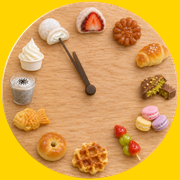
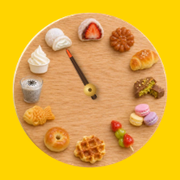
로고를 바늘 없는 디저트 시계 + 나무 바늘(끝 주황, 째깍 움직임)로 교체, 탭 아이콘도 같은 그림
Claude-Session: https://claude.ai/code/session_01Bw8XKDyTW3H4sQFdUcPtca

diff --git a/index.html b/index.html
@@ -425,7 +425,12 @@ dialog{border:3px solid var(--ink);box-shadow:8px 8px 0 var(--ink)}
 /* ===== 앱 구조 (단계형 흐름) ===== */
 .appbar .wrap{gap:14px}
 .logo{display:inline-grid;grid-template-columns:auto auto;align-items:center;column-gap:8px}.logo small{grid-column:2}
-.logo-mark{grid-row:1/3;width:40px;height:40px;display:block;border-radius:50%;filter:drop-shadow(1.5px 1.5px 0 #1c1c1c)}
+.logo-mark{grid-row:1/3;position:relative;width:40px;height:40px;display:block}
+.logo-mark img{width:100%;height:100%;display:block;border-radius:50%;filter:drop-shadow(1.5px 1.5px 0 #1c1c1c)}
+.logo-mark svg{position:absolute;inset:0;width:100%;height:100%;overflow:visible}
+.lm-tick{transform-box:view-box;transform-origin:50px 50px;animation:lm-tick 1.1s cubic-bezier(.3,1.7,.5,1) .25s both}
+@keyframes lm-tick{0%{transform:rotate(-80deg)}55%{transform:rotate(6deg)}100%{transform:rotate(0)}}
+@media (prefers-reduced-motion:reduce){.lm-tick{animation:none}}
 .store{display:inline-flex;align-items:center;gap:8px;padding-left:14px;border-left:2px solid rgba(28,28,28,.25);font-weight:900;font-size:15px;cursor:pointer;white-space:nowrap}
 .store i{font-style:normal;display:inline-grid;place-items:center;width:26px;height:26px;border-radius:6px;background:#fff;border:2px solid var(--ink);font-size:12px}
 nav .nb{border:2px solid var(--ink);background:#fff;border-radius:8px;padding:6px 12px;font-weight:800}
@@ -657,7 +662,7 @@ details.more #chips{padding:0 16px 14px}
 <body>
 <header class="appbar">
   <div class="wrap">
-    <a class="logo" href="#" data-go="1"><img class="logo-mark" src="img/brand/logo-clock.webp" alt="" width="38" height="38"><span>디저트 <b>타이밍</b></span><small>지금 출시해도 될까?</small></a>
+    <a class="logo" href="#" data-go="1"><span class="logo-mark"><img src="img/brand/logo-clock.webp" alt="" width="40" height="40"><svg viewBox="0 0 100 100" aria-hidden="true"><defs><linearGradient id="lm-wal" x1="0" x2="1"><stop offset="0" stop-color="#2a1a12"/><stop offset=".5" stop-color="#5a3a26"/><stop offset="1" stop-color="#2a1a12"/></linearGradient><radialGradient id="lm-brass" cx=".35" cy=".35" r=".8"><stop offset="0" stop-color="#ffe9a8"/><stop offset=".45" stop-color="#d9a441"/><stop offset="1" stop-color="#8a5a1a"/></radialGradient><filter id="lm-sh" x="-50%" y="-50%" width="200%" height="200%"><feDropShadow dx="1.2" dy="1.6" stdDeviation="1.1" flood-color="#3a2010" flood-opacity=".45"/></filter></defs><g class="lm-tick"><g filter="url(#lm-sh)" transform="rotate(-30 50 50)"><path d="M48.3 56 L48.9 22 Q50 17 51.1 22 L51.7 56 Q50 58 48.3 56 Z" fill="url(#lm-wal)"/><path d="M49 25.5 L49.3 21.5 Q50 18 50.7 21.5 L51 25.5 Z" fill="#ff5a1f"/><circle cx="50" cy="50" r="4.2" fill="url(#lm-brass)"/><circle cx="50" cy="50" r="1.2" fill="#6b4512"/></g></g></svg></span><span>디저트 <b>타이밍</b></span><small>지금 출시해도 될까?</small></a>
     <nav>
       <button type="button" class="nb" data-view="flow" aria-pressed="true">메뉴 개발</button>
       <button type="button" class="nb" data-view="radar" aria-pressed="false">이번 주 레이더</button>

diff --git a/src/body.html b/src/body.html
@@ -1,7 +1,7 @@
 <body>
 <header class="appbar">
   <div class="wrap">
-    <a class="logo" href="#" data-go="1"><img class="logo-mark" src="img/brand/logo-clock.webp" alt="" width="38" height="38"><span>디저트 <b>타이밍</b></span><small>지금 출시해도 될까?</small></a>
+    <a class="logo" href="#" data-go="1"><span class="logo-mark"><img src="img/brand/logo-clock.webp" alt="" width="40" height="40"><svg viewBox="0 0 100 100" aria-hidden="true"><defs><linearGradient id="lm-wal" x1="0" x2="1"><stop offset="0" stop-color="#2a1a12"/><stop offset=".5" stop-color="#5a3a26"/><stop offset="1" stop-color="#2a1a12"/></linearGradient><radialGradient id="lm-brass" cx=".35" cy=".35" r=".8"><stop offset="0" stop-color="#ffe9a8"/><stop offset=".45" stop-color="#d9a441"/><stop offset="1" stop-color="#8a5a1a"/></radialGradient><filter id="lm-sh" x="-50%" y="-50%" width="200%" height="200%"><feDropShadow dx="1.2" dy="1.6" stdDeviation="1.1" flood-color="#3a2010" flood-opacity=".45"/></filter></defs><g class="lm-tick"><g filter="url(#lm-sh)" transform="rotate(-30 50 50)"><path d="M48.3 56 L48.9 22 Q50 17 51.1 22 L51.7 56 Q50 58 48.3 56 Z" fill="url(#lm-wal)"/><path d="M49 25.5 L49.3 21.5 Q50 18 50.7 21.5 L51 25.5 Z" fill="#ff5a1f"/><circle cx="50" cy="50" r="4.2" fill="url(#lm-brass)"/><circle cx="50" cy="50" r="1.2" fill="#6b4512"/></g></g></svg></span><span>디저트 <b>타이밍</b></span><small>지금 출시해도 될까?</small></a>
     <nav>
       <button type="button" class="nb" data-view="flow" aria-pressed="true">메뉴 개발</button>
       <button type="button" class="nb" data-view="radar" aria-pressed="false">이번 주 레이더</button>

diff --git a/src/head.html b/src/head.html
@@ -425,7 +425,12 @@ dialog{border:3px solid var(--ink);box-shadow:8px 8px 0 var(--ink)}
 /* ===== 앱 구조 (단계형 흐름) ===== */
 .appbar .wrap{gap:14px}
 .logo{display:inline-grid;grid-template-columns:auto auto;align-items:center;column-gap:8px}.logo small{grid-column:2}
-.logo-mark{grid-row:1/3;width:40px;height:40px;display:block;border-radius:50%;filter:drop-shadow(1.5px 1.5px 0 #1c1c1c)}
+.logo-mark{grid-row:1/3;position:relative;width:40px;height:40px;display:block}
+.logo-mark img{width:100%;height:100%;display:block;border-radius:50%;filter:drop-shadow(1.5px 1.5px 0 #1c1c1c)}
+.logo-mark svg{position:absolute;inset:0;width:100%;height:100%;overflow:visible}
+.lm-tick{transform-box:view-box;transform-origin:50px 50px;animation:lm-tick 1.1s cubic-bezier(.3,1.7,.5,1) .25s both}
+@keyframes lm-tick{0%{transform:rotate(-80deg)}55%{transform:rotate(6deg)}100%{transform:rotate(0)}}
+@media (prefers-reduced-motion:reduce){.lm-tick{animation:none}}
 .store{display:inline-flex;align-items:center;gap:8px;padding-left:14px;border-left:2px solid rgba(28,28,28,.25);font-weight:900;font-size:15px;cursor:pointer;white-space:nowrap}
 .store i{font-style:normal;display:inline-grid;place-items:center;width:26px;height:26px;border-radius:6px;background:#fff;border:2px solid var(--ink);font-size:12px}
 nav .nb{border:2px solid var(--ink);background:#fff;border-radius:8px;padding:6px 12px;font-weight:800}
